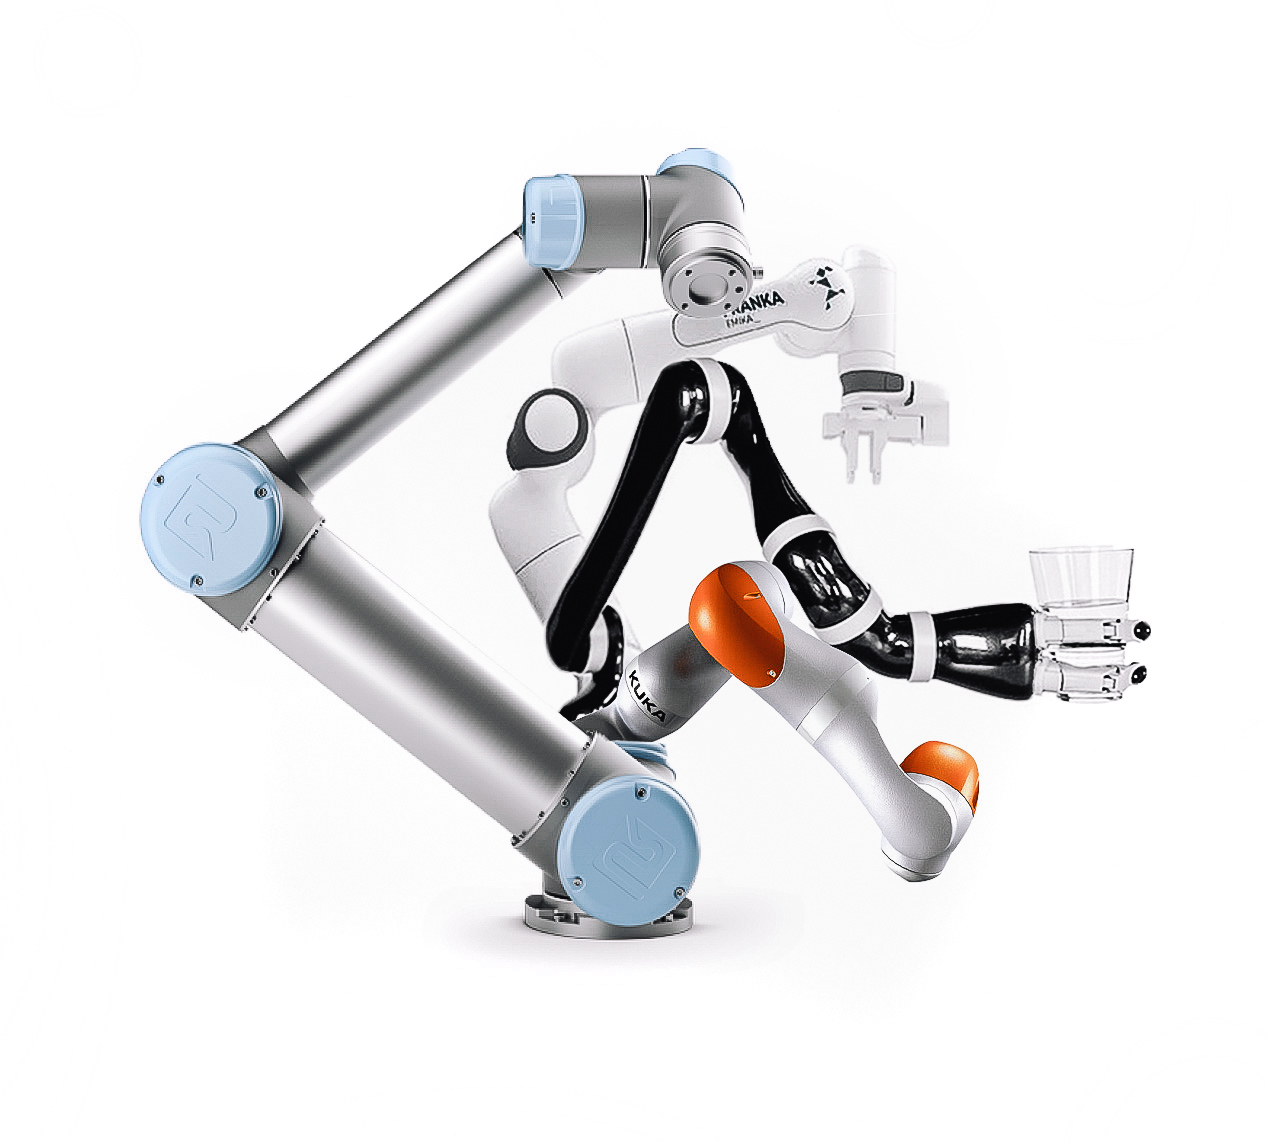
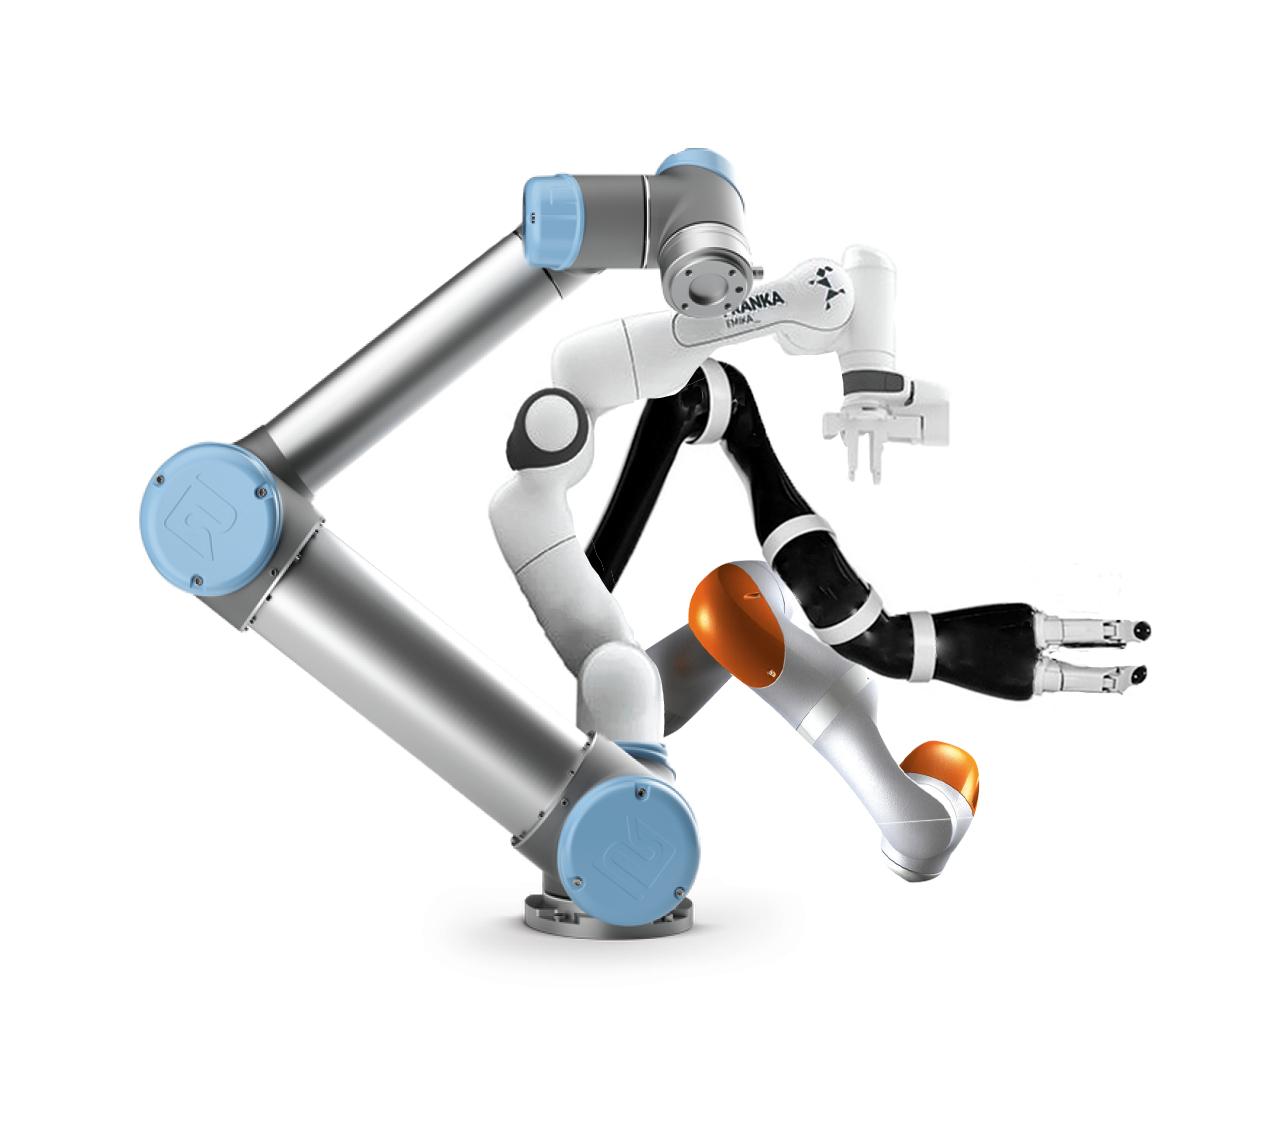
updated navlinks and hero image.

diff --git a/jobs.html b/jobs.html
@@ -67,7 +67,6 @@
                 <ul class="dropdown-menu">
                     <li class="option"><a href="./projects" id="featuresHH1">PROJECTS</a></li>
                     <li class="option"><a href="./services" id="servicesHH2">SERVICES</a></li>
-                    <li class="option"><a href="./support" id="supportHH2">SUPPORT</a></li>
                     <li class="option"><a href="./people" id="aboutHH1">PEOPLE</a></li>
                     <li class="option"><a href="./jobs" id="jobsHH2">JOBS</a></li>
                     <li class="option"><a href="./connect" id="requestHH2">CONNECT</a></li>
@@ -82,7 +81,6 @@
         <div class="headerCol2">
             <a href="./projects" class="headerLinks1">PROJECTS</a>
             <a href="./services" class="headerLinks">SERVICES</a>
-            <a href="./support" class="headerLinks">SUPPORT</a>
             <a href="./people" class="headerLinks">PEOPLE</a>
             <a href="./jobs" class="headerLinks">JOBS</a>
         </div>
@@ -230,7 +228,7 @@
                         <br>
                         <div class="bullet">&#9633;</div> Work a flexible schedule including working remotely when you need to - Health Reimbursement Account (HRA)
                         <br><br> So you wanna join, what do you need to do?
-                        <br><br> Submit your resume to <a href="mailto:jobs@picknik.ai">Jobs@picknik.ai</a> and highlight relevant experience.
+                        <br><br> Submit your resume to <a href="mailto:jobs@picknik.ai">jobs@picknik.ai</a> and highlight relevant experience.
                     </div>
                 </div>
             </div>
@@ -242,7 +240,6 @@
             <div class="footerColL">
                 <a href="./projects" class="footerLinks1">PROJECTS</a>
                 <a href="./services" class="footerLinks">SERVICES</a>
-                <a href="./support" class="footerLinks">SUPPORT</a>
                 <a href="./people" class="footerLinks">PEOPLE</a>
                 <a href="./jobs" class="footerLinks">JOBS</a>
                 <a href="./connect" class="footerLinks">CONNECT</a>

diff --git a/projects.html b/projects.html
@@ -75,7 +75,6 @@
                 <ul class="dropdown-menu">
                     <li class="option"><a href="./projects" id="featuresHH1">PROJECTS</a></li>
                     <li class="option"><a href="./services" id="servicesHH2">SERVICES</a></li>
-                    <li class="option"><a href="./support" id="supportHH2">SUPPORT</a></li>
                     <li class="option"><a href="./people" id="aboutHH1">PEOPLE</a></li>
                     <li class="option"><a href="./jobs" id="jobsHH2">JOBS</a></li>
                     <li class="option"><a href="./connect" id="requestHH2">CONNECT</a></li>
@@ -103,7 +102,6 @@
         <div class="headerCol2">
             <a href="./projects" class="headerLinks1">PROJECTS</a>
             <a href="./services" class="headerLinks">SERVICES</a>
-            <a href="./support" class="headerLinks">SUPPORT</a>
             <a href="./people" class="headerLinks">PEOPLE</a>
             <a href="./jobs" class="headerLinks">JOBS</a>
         </div>
@@ -163,7 +161,6 @@
             <div class="footerColL">
                 <a href="./projects" class="footerLinks1">PROJECTS</a>
                 <a href="./services" class="footerLinks">SERVICES</a>
-                <a href="./support" class="footerLinks">SUPPORT</a>
                 <a href="./people" class="footerLinks">PEOPLE</a>
                 <a href="./jobs" class="footerLinks">JOBS</a>
                 <a href="./connect" class="footerLinks">CONNECT</a>

diff --git a/index.html b/index.html
@@ -63,7 +63,6 @@
                 <ul class="dropdown-menu">
                     <li class="option"><a href="./projects" id="featuresHH1">PROJECTS</a></li>
                     <li class="option"><a href="./services" id="servicesHH2">SERVICES</a></li>
-                    <li class="option"><a href="./support" id="supportHH2">SUPPORT</a></li>
                     <li class="option"><a href="./people" id="aboutHH1">PEOPLE</a></li>
                     <li class="option"><a href="./jobs" id="jobsHH2">JOBS</a></li>
                     <li class="option"><a href="./connect" id="requestHH2">CONNECT</a></li>
@@ -80,7 +79,6 @@
         <div class="headerCol2">
             <a href="./projects" class="headerLinks1">PROJECTS</a>
             <a href="./services" class="headerLinks">SERVICES</a>
-            <a href="./support" class="headerLinks">SUPPORT</a>
             <a href="./people" class="headerLinks">PEOPLE</a>
             <a href="./jobs" class="headerLinks">JOBS</a>
         </div>
@@ -339,7 +337,6 @@
             <div class="footerColL">
                 <a href="./projects" class="footerLinks1">PROJECTS</a>
                 <a href="./services" class="footerLinks">SERVICES</a>
-                <a href="./support" class="footerLinks">SUPPORT</a>
                 <a href="./people" class="footerLinks">PEOPLE</a>
                 <a href="./jobs" class="footerLinks">JOBS</a>
                 <a href="./connect" class="footerLinks">CONNECT</a>

diff --git a/people.html b/people.html
@@ -64,7 +64,6 @@
                 <ul class="dropdown-menu">
                     <li class="option"><a href="./projects" id="featuresHH1">PROJECTS</a></li>
                     <li class="option"><a href="./services" id="servicesHH2">SERVICES</a></li>
-                    <li class="option"><a href="./support" id="supportHH2">SUPPORT</a></li>
                     <li class="option"><a href="./people" id="aboutHH1">PEOPLE</a></li>
                     <li class="option"><a href="./jobs" id="jobsHH2">JOBS</a></li>
                     <li class="option"><a href="./connect" id="requestHH2">CONNECT</a></li>
@@ -79,7 +78,6 @@
         <div class="headerCol2">
             <a href="./projects" class="headerLinks1">PROJECTS</a>
             <a href="./services" class="headerLinks">SERVICES</a>
-            <a href="./support" class="headerLinks">SUPPORT</a>
             <a href="./people" class="headerLinks">PEOPLE</a>
             <a href="./jobs" class="headerLinks">JOBS</a>
         </div>
@@ -228,7 +226,6 @@
             <div class="footerColL">
                 <a href="./projects" class="footerLinks1">PROJECTS</a>
                 <a href="./services" class="footerLinks">SERVICES</a>
-                <a href="./support" class="footerLinks">SUPPORT</a>
                 <a href="./people" class="footerLinks">PEOPLE</a>
                 <a href="./jobs" class="footerLinks">JOBS</a>
                 <a href="./connect" class="footerLinks">CONNECT</a>

diff --git a/services.html b/services.html
@@ -75,7 +75,6 @@
                 <ul class="dropdown-menu">
                     <li class="option"><a href="./projects" id="featuresHH1">PROJECTS</a></li>
                     <li class="option"><a href="./services" id="servicesHH2">SERVICES</a></li>
-                    <li class="option"><a href="./support" id="supportHH2">SUPPORT</a></li>
                     <li class="option"><a href="./people" id="aboutHH1">PEOPLE</a></li>
                     <li class="option"><a href="./jobs" id="jobsHH2">JOBS</a></li>
                     <li class="option"><a href="./connect" id="requestHH2">CONNECT</a></li>
@@ -90,7 +89,6 @@
         <div class="headerCol2">
             <a href="./projects" class="headerLinks1">PROJECTS</a>
             <a href="./services" class="headerLinks">SERVICES</a>
-            <a href="./support" class="headerLinks">SUPPORT</a>
             <a href="./people" class="headerLinks">PEOPLE</a>
             <a href="./jobs" class="headerLinks">JOBS</a>
         </div>
@@ -460,7 +458,6 @@
             <div class="footerColL">
                 <a href="./projects" class="footerLinks1">PROJECTS</a>
                 <a href="./services" class="footerLinks">SERVICES</a>
-                <a href="./support" class="footerLinks">SUPPORT</a>
                 <a href="./people" class="footerLinks">PEOPLE</a>
                 <a href="./jobs" class="footerLinks">JOBS</a>
                 <a href="./connect" class="footerLinks">CONNECT</a>

diff --git a/support.html b/support.html
@@ -63,7 +63,6 @@
                 <ul class="dropdown-menu">
                     <li class="option"><a href="./projects" id="featuresHH1">PROJECTS</a></li>
                     <li class="option"><a href="./services" id="servicesHH2">SERVICES</a></li>
-                    <li class="option"><a href="./support" id="supportHH2">SUPPORT</a></li>
                     <li class="option"><a href="./people" id="aboutHH1">PEOPLE</a></li>
                     <li class="option"><a href="./jobs" id="jobsHH2">JOBS</a></li>
                     <li class="option"><a href="./connect" id="requestHH2">CONNECT</a></li>
@@ -80,7 +79,6 @@
         <div class="headerCol2">
             <a href="./projects" class="headerLinks1">PROJECTS</a>
             <a href="./services" class="headerLinks">SERVICES</a>
-            <a href="./support" class="headerLinks">SUPPORT</a>
             <a href="./people" class="headerLinks">PEOPLE</a>
             <a href="./jobs" class="headerLinks">JOBS</a>
         </div>
@@ -187,7 +185,6 @@
             <div class="footerColL">
                 <a href="./projects" class="footerLinks1">PROJECTS</a>
                 <a href="./services" class="footerLinks">SERVICES</a>
-                <a href="./support" class="footerLinks">SUPPORT</a>
                 <a href="./people" class="footerLinks">PEOPLE</a>
                 <a href="./jobs" class="footerLinks">JOBS</a>
                 <a href="./connect" class="footerLinks">CONNECT</a>

diff --git a/connect.html b/connect.html
@@ -67,7 +67,6 @@
                 <ul class="dropdown-menu">
                     <li class="option"><a href="./projects" id="featuresHH1">PROJECTS</a></li>
                     <li class="option"><a href="./services" id="servicesHH2">SERVICES</a></li>
-                    <li class="option"><a href="./support" id="supportHH2">SUPPORT</a></li>
                     <li class="option"><a href="./people" id="aboutHH1">PEOPLE</a></li>
                     <li class="option"><a href="./jobs" id="jobsHH2">JOBS</a></li>
                     <li class="option"><a href="./connect" id="requestHH2">CONNECT</a></li>
@@ -83,7 +82,6 @@
         <div class="headerCol2">
             <a href="./projects" class="headerLinks1">PROJECTS</a>
             <a href="./services" class="headerLinks">SERVICES</a>
-            <a href="./support" class="headerLinks">SUPPORT</a>
             <a href="./people" class="headerLinks">PEOPLE</a>
             <a href="./jobs" class="headerLinks">JOBS</a>
         </div>

diff --git a/CSS/csspicknik.css b/CSS/csspicknik.css
@@ -689,7 +689,7 @@ a.headerLinks1:hover {
 .heroPad {
     text-align: left;
     padding-left: 10%;
-    padding-right: 5%;
+    padding-right: 2%;
 }
 
 .heroPad2 {
@@ -757,7 +757,7 @@ a {
 }
 
 .heroImg {
-    width: 100%;
+    width: 120%;
     max-width: 680px;
 }
 
@@ -1972,7 +1972,7 @@ a.peopleName:hover {
         color: #fff;
     }
     .heroImg {
-        width: 90%;
+        width: 100%;
         max-width: 680px;
     }
     /*END HERO AREA*/
